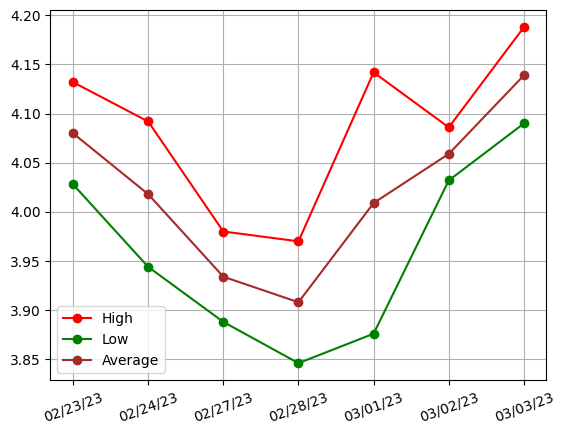
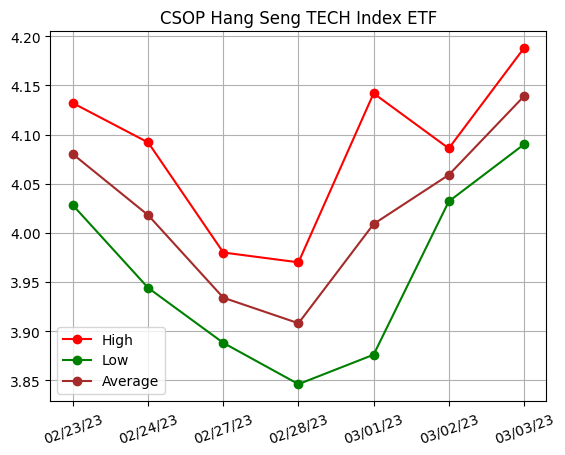
up

diff --git a/record/list_1/summary.html b/record/list_1/summary.html
@@ -1,2 +1,4 @@
-<img src="/github_action_playground/record/list_1/image/3033.HK_1d-30m.png" alt="3033.HK_1d-30m"/>
-<img src="/github_action_playground/record/list_1/image/3033.HK_7d-1d.png" alt="3033.HK_1d-30m"/>
+<img src="/github_action_playground/record/list_1/image/3033.HK_1d-30m.png" alt="price: CSOP Hang Seng TECH Index ETF"/>
+<img src="/github_action_playground/record/list_1/image/3033.HK_1d-30m_profit.png" alt="profit: CSOP Hang Seng TECH Index ETF"/>
+<img src="/github_action_playground/record/list_1/image/3033.HK_7d-1d.png" alt="price: CSOP Hang Seng TECH Index ETF"/>
+<img src="/github_action_playground/record/list_1/image/3033.HK_7d-1d_profit.png" alt="profit: CSOP Hang Seng TECH Index ETF"/>

diff --git a/update.py b/update.py
@@ -14,8 +14,17 @@ summary_md_dir = Path("summary.md")
 summary_html_dir = Path("summary.html")
 
 
-def default_plt_save(name):
+def get_yahoo_longname(symbol):
+    import urllib
+    import json
+    response = urllib.request.urlopen(f'https://query1.finance.yahoo.com/v1/finance/search?q={symbol}')
+    content = response.read()
+    data = json.loads(content.decode('utf8'))['quotes'][0]['longname']
+    return data
+
+def default_plt_save(name, title):
     img_name = name+'.png'
+    plt.title(title)
     plt.grid()
     plt.legend()
     plt.xticks(rotation=20, fontsize = 'medium')
@@ -23,20 +32,22 @@ def default_plt_save(name):
     plt.clf()
     return Path(img_name).resolve()
 
-def plot_price(name, hist):
+def plot_price(name, hist, title):
     plt.plot(hist['High'], marker="o", color="red", label="High")
     plt.plot(hist['Low'], marker="o", color="green", label="Low")
     plt.plot(hist['Average'], marker="o", color="brown", label="Average")
     #plt.ylabel('price')
     #plt.xlabel('date')
-    return default_plt_save(name)
+    return default_plt_save(name, title)
 
-def plot_profit(name, hist):
+def plot_profit(name, hist, title):
     plt.plot(hist['Profit'], marker="s", color="black", label="Profit")
-    return default_plt_save(name)
+    return default_plt_save(name, title)
 
 def update_stock(name, my_price, hold_n, period, interval, plot_datetime_format):
     ticket = yf.Ticker(name)
+    longname = get_yahoo_longname(name)
+
     hist = ticket.history(period=period, interval=interval)
     hist['Average'] = hist[['High','Low']].mean(axis=1)
     hist['Profit'] = (my_price - hist['Close'])*hold_n
@@ -47,9 +58,12 @@ def update_stock(name, my_price, hold_n, period, interval, plot_datetime_format)
     hist.set_index(index_name, inplace=True)
 
     img_prefix = name+"_"+period+"-"+interval
-    img_price_dir = plot_price(img_prefix, hist)
-    img_profit_dir = plot_profit(img_prefix+'_profit', hist)
-    return img_price_dir, img_profit_dir, hist
+    img_price_dir = plot_price(img_prefix, hist, longname)
+    img_profit_dir = plot_profit(img_prefix+'_profit', hist, longname)
+    return {'img_price_dir': img_price_dir,
+            'img_profit_dir': img_profit_dir, 
+            'hist': hist,
+            'longname': longname}
 
 update_stock_7d = lambda name, my_price, hold_n: update_stock(name, my_price, hold_n, "7d", "1d", "%D")
 update_stock_1m = lambda name, my_price, hold_n: update_stock(name, my_price, hold_n, "1d", "30m", "%H:%M")
@@ -108,13 +122,20 @@ with open(index_html, "w+") as f_index_html:
                         os.chdir(f_set_dir.joinpath(img_dir))
                         stock_name = name.strip()
 
-                        output_img_price_1m_dir, output_img_profit_1m_dir, hist_1m = update_stock_1m(stock_name, row['My_price'], row['Hold_n'])
-                        output_img_price_7d_dir, output_img_profit_7d_dir, hist_7d = update_stock_7d(stock_name, row['My_price'], row['Hold_n'])
+                        stock_1m = update_stock_1m(stock_name, row['My_price'], row['Hold_n'])
+                        stock_7d = update_stock_7d(stock_name, row['My_price'], row['Hold_n'])
 
                         os.chdir(record_dir)
 
-                        write_html_md(summary_html_f, summary_md_f, output_img_price_1m_dir, output_img_price_1m_dir.stem, 'i')
-                        write_html_md(summary_html_f, summary_md_f, output_img_price_7d_dir, output_img_price_1m_dir.stem, 'i')
+                        def write_stock(stock_data):
+                            write_html_md(summary_html_f, summary_md_f, stock_data['img_price_dir'], "price: "+stock_data['longname'], 'i')
+                            write_html_md(summary_html_f, summary_md_f, stock_data['img_profit_dir'], "profit: "+stock_data['longname'], 'i')
+
+                        write_stock(stock_1m)
+                        write_stock(stock_7d)
+
+                        #write_html_md(summary_html_f, summary_md_f, output_img_price_1m_dir, output_img_price_1m_dir.stem, 'i')
+                        #write_html_md(summary_html_f, summary_md_f, output_img_price_7d_dir, output_img_price_1m_dir.stem, 'i')
 
                         #img_url = dir_to_url(output_img_price_7d_dir)
                         #img_md = dir_to_md(output_img_price_7d_dir)

diff --git a/record/list_1/summary.md b/record/list_1/summary.md
@@ -1,2 +1,4 @@
-![3033.HK_1d-30m](/record/list_1/image/3033.HK_1d-30m.png)
-![3033.HK_1d-30m](/record/list_1/image/3033.HK_7d-1d.png)
+![price: CSOP Hang Seng TECH Index ETF](/record/list_1/image/3033.HK_1d-30m.png)
+![profit: CSOP Hang Seng TECH Index ETF](/record/list_1/image/3033.HK_1d-30m_profit.png)
+![price: CSOP Hang Seng TECH Index ETF](/record/list_1/image/3033.HK_7d-1d.png)
+![profit: CSOP Hang Seng TECH Index ETF](/record/list_1/image/3033.HK_7d-1d_profit.png)
